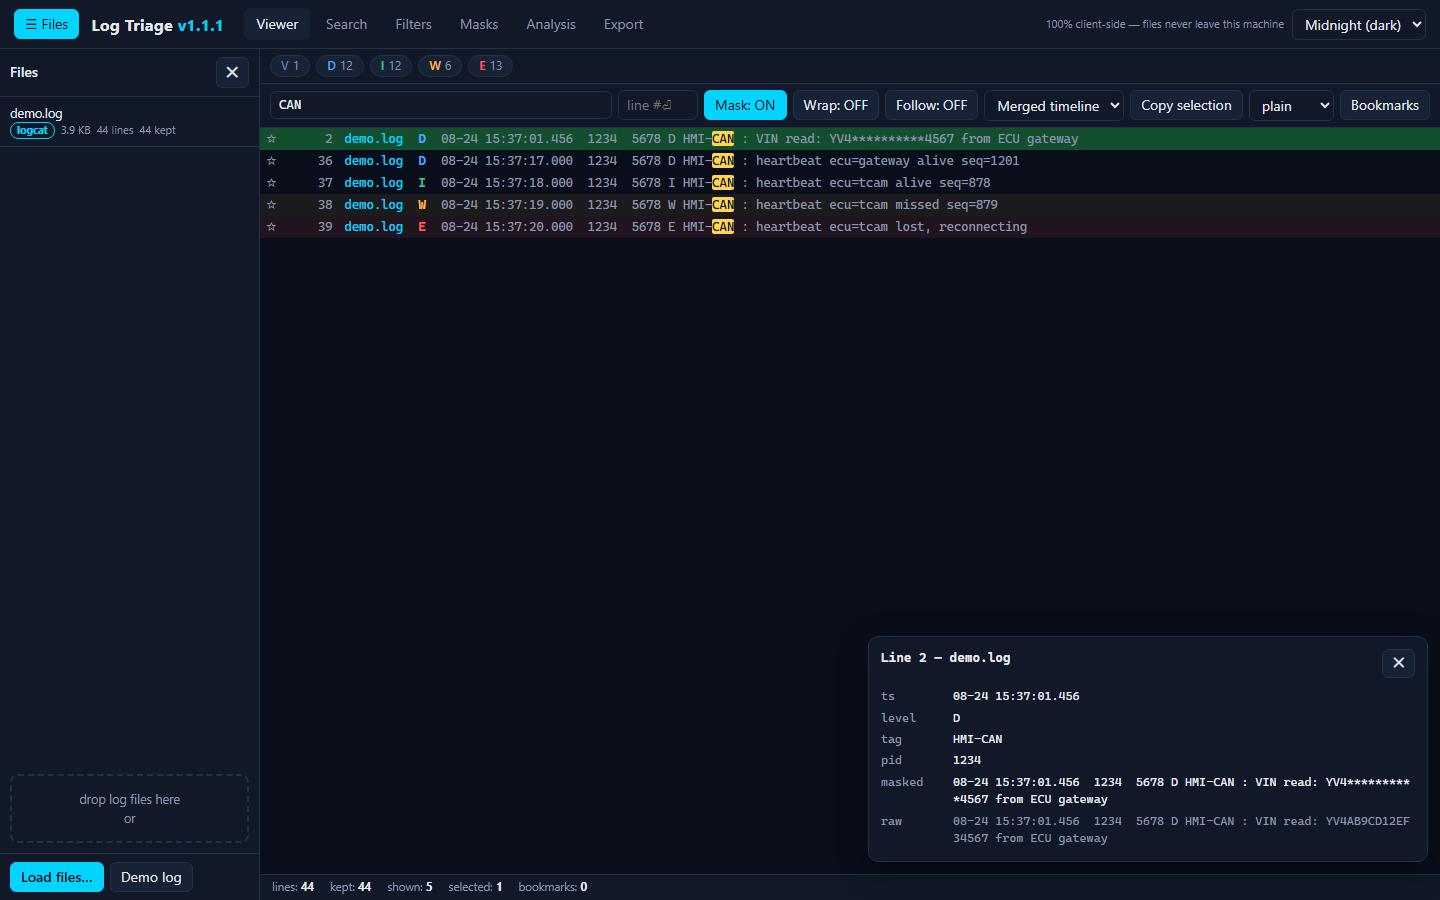
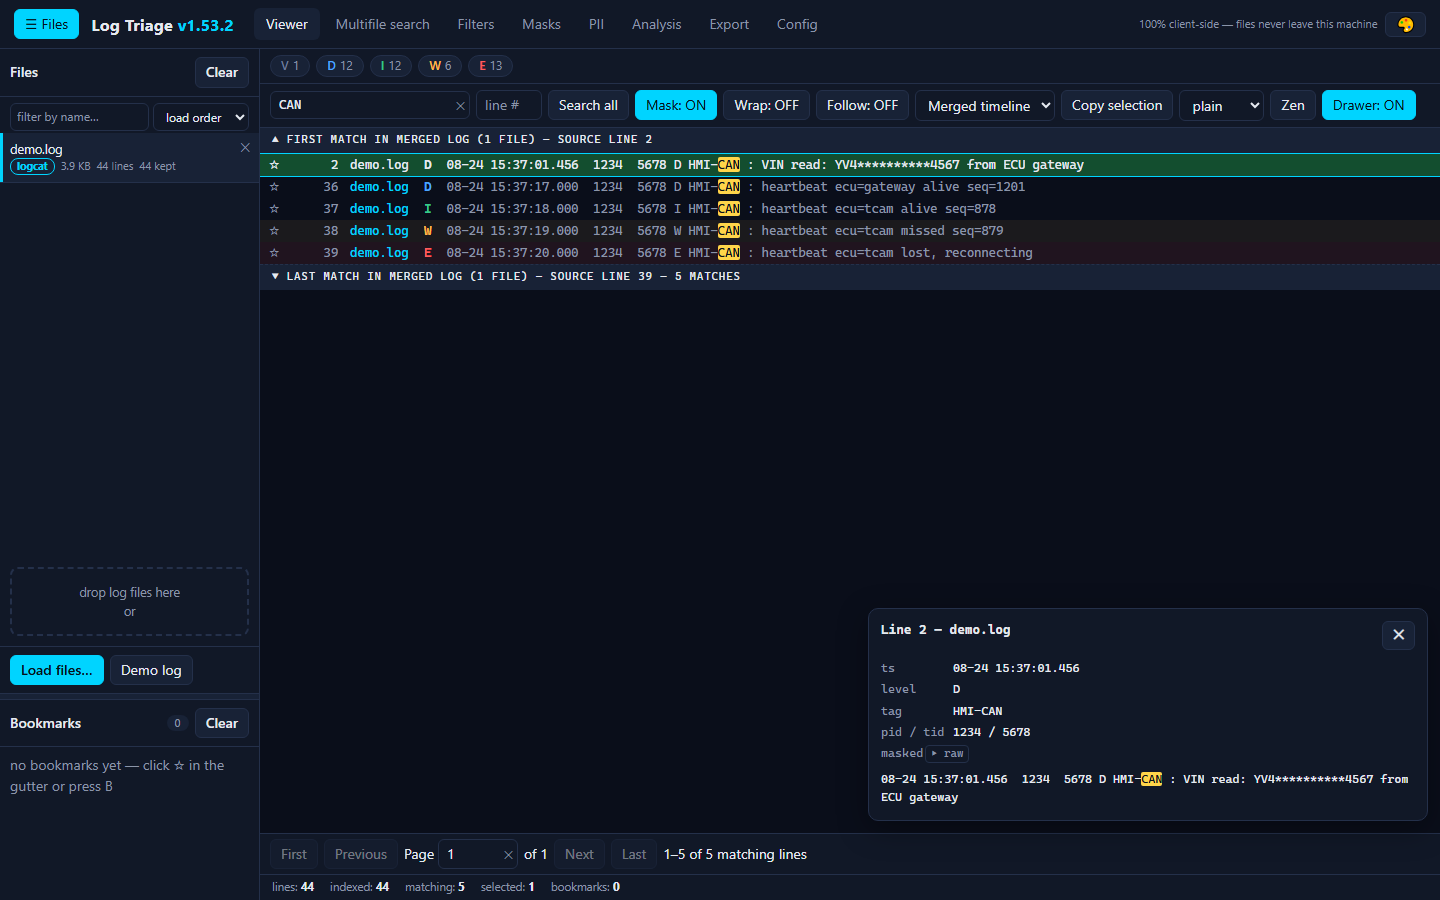
docs: refresh README screenshots (current UI, new Search-all shot), fix shots.mjs theme switching, stale counts

diff --git a/README.md b/README.md
@@ -26,9 +26,13 @@ The same viewer in the light **Paper** theme:
 
 ![Analysis dashboard](docs/img/4-analysis.png)
 
-**Search** — ripgrep-style flags, instant results grouped by file as `file:lineNo:`, deep scan from disk, and click-to-jump:
+**Multifile search** — ripgrep-style flags, instant results grouped by file as `file:lineNo:`, deep scan from disk, and click-to-jump (the tab is named Multifile search because it always covers every loaded file):
 
 ![Ripgrep-style search](docs/img/5-search.png)
+
+**Viewer Search all** — every quick-filter match across the current file(s) listed in a bottom drawer panel with click-to-jump rows; also triggered by Ctrl+Enter:
+
+![Viewer Search all panel](docs/img/6-search-all.png)
 
 ## Quick start
 
@@ -71,12 +75,13 @@ Highlighters are additive presentation rules: they never remove lines or change 
 - **File cache / session restore** — every successfully loaded file is cached in IndexedDB (`log-triage-cache`); reopening the app lists previous files — clicking a cached entry reloads it, and a **Reload** button left of Clear restores *all* pending cached files in one click (visible only while restorable cached files exist). Entries whose content is missing render greyed out with a "file not found" badge and a removable ✕.
 - **Config tab** — export/import the current filter rules, time range, PII mask setup, and issue-scan rules as one JSON file, with validation, per-section application, a status line, and current-setup cards. The tab also sets the per-file **analysis sample limit** (default 100,000 lines; applies from the next file load) that bounds the analysis tab — viewing, filtering, search, and paging always cover every indexed line regardless of this limit.
 - **Responsive mobile layout** — header wraps with horizontally scrollable tabs (edge-fade scroll hint), the files panel becomes an overlay drawer with a tap-outside scrim and ✕ close, the mask grid stacks to a single column, and at phone width the viewer toolbar collapses to one row behind a ⋯ overflow button with Wrap defaulting ON on fresh boots.
-- **Debounced search and quick-filter inputs** — matching starts after typing pauses (search 250 ms, quick filter 200 ms). Both fields keep a **search history**: focusing (or typing in) the field opens a dropdown of previous terms (substring-filtered, most recent first, capped at 20, persisted in localStorage) — click an entry or pick it with ↑/↓ + Enter to re-run it. Search results have their own **Wrap: ON/OFF** toggle (independent of the viewer's): ON wraps long matched lines inside the panel, OFF shows one scrollable line per match.
+- **Debounced search and quick-filter inputs** — matching starts after typing pauses (search 250 ms, quick filter 200 ms). The quick filter auto-expands as you type (24–80ch, monospace) so long regex patterns stay visible. Both fields keep a **search history**: focusing (or typing in) the field opens a dropdown of previous terms (substring-filtered, most recent first, capped at 20, persisted in localStorage) — click an entry or pick it with ↑/↓ + Enter to re-run it; a closed dropdown reopens with ↓/↑ (↑ pre-highlights the newest entry), the list scrolls with the keyboard highlight, and the inline ✕ clear leaves focus without re-popping the list. Search results have their own **Wrap: ON/OFF** toggle (independent of the viewer's): ON wraps long matched lines inside the panel, OFF shows one scrollable line per match.
+- **Viewer Search all** — the toolbar button (or **Ctrl+Enter**) lists EVERY line matching the quick-filter pattern across the current file(s) in a bottom drawer panel: merged view searches all loaded files, per-file view the displayed file, always over the complete indexed files (never the analysis sample). Rows carry file, line number, timestamp, and masked text with the matched terms marked, and click-jump to the line; result pages load lazily on scroll, the panel height drags via a top grip (persisted, double-click resets), and the rows follow the viewer's Wrap toggle. Because the viewer is virtualized, the browser's own Ctrl+F only sees the rendered page — Ctrl+F is intercepted to focus the quick filter and show a floating alert explaining the limitation, pointing at Search all.
 - **Navigation** — click a search result, sidebar bookmark, or issue-scan entry to jump to the line (the viewer loads the page containing it and opens the detail drawer): the per-file selection auto-switches to the matched file and transient filters that would hide the target (quick search, level chips, time range, ★ only-bookmarks) are auto-cleared; a go-to-line box in the viewer toolbar takes a line number + Enter and reaches any indexed line, in files of any size.
 - **Files panel filter & sort** — a text box filters the list by file name (live files and cached entries, case-insensitive substring) and a dropdown sorts it by load order, name, size, or line count (ascending/descending); with an active filter that matches nothing, the panel says so. The panel mirrors what the viewer shows: in **merged timeline** every loaded file is highlighted, in **per-file** mode only the file on screen is — and a newly loaded file becomes the displayed one in per-file mode, so new content is never hidden.
 - **Collapsible files panel** — toggle via the header "☰ Files" button (state persisted; auto-collapsed on narrow screens).
 - **Horizontal scrolling in nowrap mode** — the scroll range is sized from the longest line in the view, so long lines are fully reachable instead of ellipsis-truncated.
-- **Self-test** — `?selftest` runs the same 131-case suite in the browser that `node --test` executes (`tests/core-cases.js`).
+- **Self-test** — `?selftest` runs the same 153-case suite in the browser that `node --test` executes (`tests/core-cases.js`).
 
 ## Privacy and security
 
@@ -93,7 +98,7 @@ Requirements: Node.js 22.
 npm test          # Unit + bump suites (node:test)
 npm run test:gate # Unit tests + coverage gate (>=90% line / >=85% branch on core src modules)
 npm run build     # Build log-triage.html from src/
-npm run e2e       # Playwright end-to-end tests (63 specs: 55 app + 8 stress)
+npm run e2e       # Playwright end-to-end tests (95 specs: 87 app + 8 stress)
 npm run e2e:stress # Stress suite only (generated big fixture)
 npm run bump      # Semver bump from conventional commits (CI runs this automatically on main)
 ```
